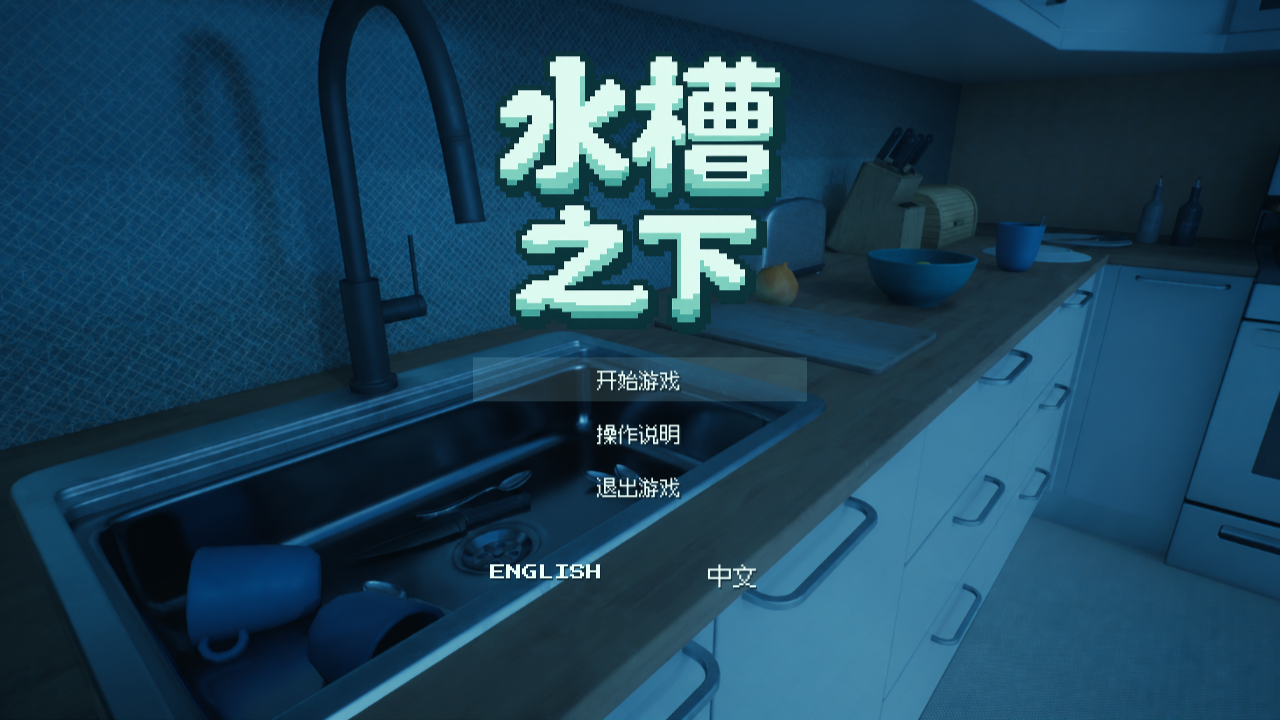
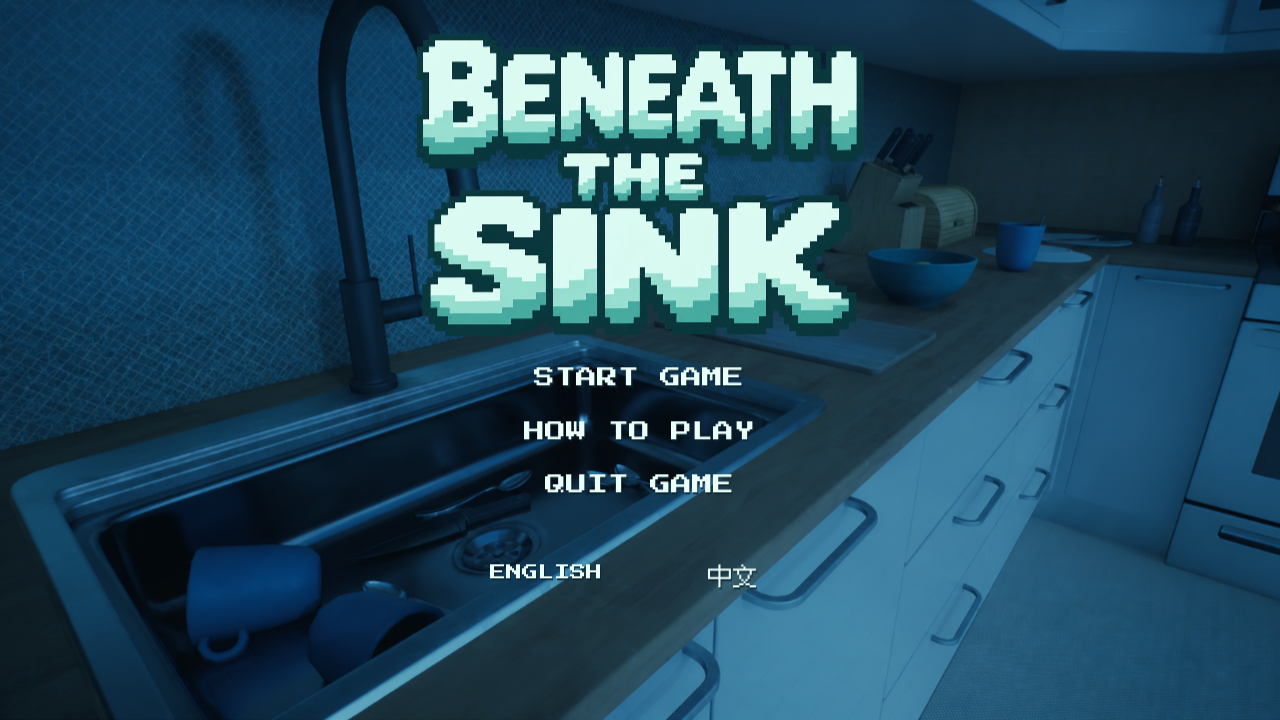
Present English first and use English screenshots

Changed region(s): [[0.3125, 0.0306, 0.6875, 0.7028]]

diff --git a/README.md b/README.md
@@ -1,60 +1,91 @@
-# Beneath the Sink · 水槽之下
+# Beneath the Sink
 
-一款面向青少年的微生物科普探索游戏。从厨房水槽出发，进入蓝色的水管世界，认识不同微生物，穿过污膜、借助水流，探索水槽之下的微观世界。
+**Windows 64-bit · English / 简体中文** · [中文介绍](#简体中文)
 
-An educational exploration game about microorganisms. Begin at a kitchen sink, venture into a blue underwater pipe network, meet its microscopic inhabitants, and explore through dialogue, short bursts of movement, and flowing water.
+An educational exploration game about microorganisms, designed for young audiences. Begin at a kitchen sink, venture into a blue underwater pipe network, meet its microscopic inhabitants, and explore through dialogue, short bursts of movement, and flowing water.
 
-![Title screen](images/title.png)
+![English title screen](images/title.png)
 
-## 下载 / Download
+## Download
 
-**Windows 64-bit · English / 简体中文**
-
-[下载最新版 / Download the latest release](https://github.com/hotcatmiaomiaomiao-arch/Beneath-the-Sink/releases/latest)
-
-在 Releases 的 **Assets** 中下载 `BeneathTheSink-Windows-v3.zip`，完整解压，再运行 `Beneath the Sink.exe`。请保留旁边的 `Engine` 和 `Microorganism` 文件夹，不要只移动 EXE。无需安装 Unreal Engine。
+**[Download the latest release](https://github.com/hotcatmiaomiaomiao-arch/Beneath-the-Sink/releases/latest)**
 
 Download `BeneathTheSink-Windows-v3.zip` from the release **Assets**, extract the entire archive, and run `Beneath the Sink.exe`. Keep the `Engine` and `Microorganism` folders alongside it. Unreal Engine is not required.
 
-GitHub 自动生成的 **Source code (zip/tar.gz)** 只有本仓库的介绍文件，不是游戏安装包。
+The automatically generated **Source code (zip/tar.gz)** archives contain this repository's documentation, not the playable game.
 
-The automatically generated **Source code** archives contain this repository's documentation, not the playable game.
+## Controls
 
-## 操作 / Controls
+For kitchen controls, see **How to Play** on the title screen. In the pipe level:
 
-厨房场景的操作请查看游戏开始界面的操作说明。水管场景：
-
-| 按键 / Key | 操作 / Action |
+| Key | Action |
 | --- | --- |
-| W / A / S / D | 前后左右移动 / Move |
-| Space | 上升 / Ascend |
-| Ctrl | 下降 / Descend |
-| Shift | 短暂加速、穿过污膜 / Short burst, pass through slime barriers |
-| F | 继续或结束对话 / Advance or finish dialogue |
-| Esc | 退出游戏 / Quit the game |
-
-在开始界面可切换中文和英文。结束后可重新开始，或返回主菜单。
+| W / A / S / D | Move |
+| Space | Ascend |
+| Ctrl | Descend |
+| Shift | Short burst; pass through slime barriers |
+| F | Advance or finish dialogue |
+| Esc | Quit the game |
 
 Choose English or Chinese on the title screen. At the end, restart the game or return to the main menu.
 
-![In-game dialogue](images/gameplay.png)
+![English in-game dialogue](images/gameplay.png)
 
-## 启动问题 / Troubleshooting
+## Troubleshooting
+
+- If the Microsoft Visual C++ runtime is missing, run `Engine/Extras/Redist/en-us/vc_redist.x64.exe` inside the game folder.
+- If the default DirectX 12 mode cannot start, try `Compatibility Mode.bat`. It uses DirectX 11, so lighting may differ.
+- Report issues with the game version, system information, reproduction steps, and a screenshot.
+
+## About this repository
+
+This repository hosts the game description and playable Windows releases. The editable Unreal project, Blueprints, and original art assets are not published here. This is not an open-source game release.
+
+Third-party audio and font notices are included in the game's `Licenses` folder and remain governed by their respective licenses.
+
+Created by [hotcatmiaomiaomiao-arch](https://github.com/hotcatmiaomiaomiao-arch). Built with Unreal Engine 5.6.
+
+---
+
+## 简体中文
+
+### 水槽之下
+
+一款面向青少年的微生物科普探索游戏。从厨房水槽出发，进入蓝色的水管世界，认识不同微生物，穿过污膜、借助水流，探索水槽之下的微观世界。
+
+### 下载
+
+**[下载最新版](https://github.com/hotcatmiaomiaomiao-arch/Beneath-the-Sink/releases/latest)**
+
+在 Releases 的 **Assets** 中下载 `BeneathTheSink-Windows-v3.zip`，完整解压，再运行 `Beneath the Sink.exe`。请保留旁边的 `Engine` 和 `Microorganism` 文件夹，不要只移动 EXE。无需安装 Unreal Engine。
+
+GitHub 自动生成的 **Source code (zip/tar.gz)** 只有本仓库的介绍文件，不是游戏安装包。
+
+### 操作
+
+厨房场景的操作请查看游戏开始界面的操作说明。水管场景：
+
+| 按键 | 操作 |
+| --- | --- |
+| W / A / S / D | 前后左右移动 |
+| Space | 上升 |
+| Ctrl | 下降 |
+| Shift | 短暂加速、穿过污膜 |
+| F | 继续或结束对话 |
+| Esc | 退出游戏 |
+
+在开始界面可切换中文和英文。结束后可重新开始，或返回主菜单。
+
+### 启动问题
 
 - 缺少 Microsoft Visual C++ 运行库：运行游戏文件夹内的 `Engine/Extras/Redist/en-us/vc_redist.x64.exe`。
 - 默认 DirectX 12 模式无法启动：尝试 `Compatibility Mode.bat`（DirectX 11，画面可能略有差别）。
 - 发现问题时，请在本仓库 Issues 中附上游戏版本、系统信息、问题描述和截图。
 
-If the Visual C++ runtime is missing, install the bundled runtime listed above. If the default DirectX 12 mode cannot start, try `Compatibility Mode.bat`; lighting may differ in DirectX 11. Report issues with the game version, system information, reproduction steps, and a screenshot.
-
-## 关于本仓库 / About this repository
+### 关于本仓库
 
 这是游戏成品的介绍与下载仓库。这里只提供编译后的 Windows 游戏，不公开可编辑的 Unreal 工程、蓝图或原始美术资源。
 
-This repository hosts the game description and playable Windows releases. The editable Unreal project, Blueprints, and original art assets are not published here. This is not an open-source game release.
-
 游戏内第三方音效、字体的来源和授权说明随下载包的 `Licenses` 文件夹提供；各自授权继续适用。
 
-Third-party audio and font notices are included in the game's `Licenses` folder and remain governed by their respective licenses.
-
-Created by [hotcatmiaomiaomiao-arch](https://github.com/hotcatmiaomiaomiao-arch). Built with Unreal Engine 5.6.
+作者：[hotcatmiaomiaomiao-arch](https://github.com/hotcatmiaomiaomiao-arch)。使用 Unreal Engine 5.6 制作。
